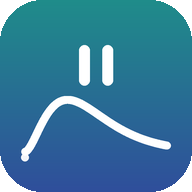
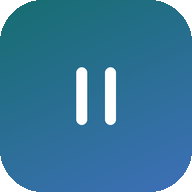
Иконка на рабочем столе — знак из шапки приложения
Вместо волны с паузой сверху — тот же скруглённый квадрат с градиентом
и белым знаком паузы, что стоит в шапке. Геометрия повторяет разметку:
содержимое занимает 60% стороны, линии там же, где в svg.
Кэш service worker поднят до v2, иначе на установленном приложении
осталась бы прежняя иконка.

Changed region(s): [[0.0, 0.2188, 1.0, 1.0], [0.0312, 0.0, 0.9688, 0.0938]]

diff --git a/sw.js b/sw.js
@@ -1,5 +1,5 @@
 /* «Пауза» — service worker. Кэшируется только оболочка; данные живут в localStorage. */
-const CACHE = "pauza-v1";
+const CACHE = "pauza-v2";   // v2: иконки заменены на знак из шапки
 const ASSETS = [
   "./", "./index.html", "./app.js", "./manifest.webmanifest",
   "./icon-180.png", "./icon-192.png", "./icon-512.png", "./favicon-32.png"

diff --git a/make_icons.py b/make_icons.py
@@ -1,62 +1,62 @@
 #!/usr/bin/env python3
-"""Иконки для «Паузы»: спокойный градиент бирюза → индиго, белая волна и знак паузы."""
+"""Иконки для «Паузы» — тот же знак, что стоит в шапке приложения:
+скруглённый квадрат с градиентом бирюза → синий и белый знак паузы.
+
+Геометрия повторяет разметку: логотип в шапке — квадрат 30 px, внутри
+svg 18 px с двумя линиями (x = 9 и 15, y от 6 до 18, толщина 2.2,
+круглые концы). Значит содержимое занимает 60% стороны, и все размеры
+здесь считаются от этой доли — иконка получается той же, только крупнее.
+"""
 from PIL import Image, ImageDraw
 import math, os
 
 OUT = os.path.dirname(os.path.abspath(__file__))
 
+ACCENT = (0x16, 0x6E, 0x70)    # --accent светлой темы
+ACCENT2 = (0x3E, 0x6F, 0xB8)   # --accent-2
+ANGLE = 155                    # linear-gradient(155deg, …) из .logo
+
+
 def lerp(a, b, t):
     return tuple(round(a[i] + (b[i] - a[i]) * t) for i in range(3))
+
 
 def rounded_mask(size, rad):
     m = Image.new("L", (size, size), 0)
     ImageDraw.Draw(m).rounded_rectangle([0, 0, size - 1, size - 1], radius=rad, fill=255)
     return m
 
+
 def make(size):
-    ss = 4
+    ss = 4                     # рисуем крупнее и ужимаем: края выходят гладкими
     S = size * ss
-    img = Image.new("RGB", (S, S), (0, 0, 0))
-    top = (0x1F, 0x8C, 0x8A)   # бирюза
-    bot = (0x2F, 0x4E, 0x9B)   # индиго
+
+    # градиент вдоль направления CSS: 0deg — вверх, отсчёт по часовой стрелке
+    rad = math.radians(ANGLE)
+    dx, dy = math.sin(rad), -math.cos(rad)
+    img = Image.new("RGB", (S, S))
     px = img.load()
+    half = (abs(dx) + abs(dy)) * S / 2      # длина проекции квадрата на ось градиента
     for y in range(S):
-        c = lerp(top, bot, y / (S - 1))
         for x in range(S):
-            px[x, y] = c
-    d = ImageDraw.Draw(img, "RGBA")
+            p = ((x - S / 2) * dx + (y - S / 2) * dy + half) / (2 * half)
+            px[x, y] = lerp(ACCENT, ACCENT2, min(1.0, max(0.0, p)))
 
-    # волна: пик слева, затухание вправо
-    def wave_y(t):
-        p, a = 0.30, 1.9
-        if t <= 0:
-            return 0.0
-        r = t / p
-        return 0.10 + 0.90 * (r ** a) * math.exp(a * (1 - r))
-
-    # рисуем кружками — так линия остаётся гладкой на любом размере
-    r = S * 0.020
-    steps = 900
-    for i in range(steps + 1):
-        t = i / steps
-        x = 0.13 * S + t * 0.74 * S
-        y = 0.82 * S - wave_y(t) * 0.30 * S
-        d.ellipse([x - r, y - r, x + r, y + r], fill=(255, 255, 255, 240))
-
-    # знак паузы над волной
-    bw = S * 0.055
-    bh = S * 0.21
-    gap = S * 0.066
-    cx, cy = S * 0.50, S * 0.34
-    for sgn in (-1, 1):
-        x0 = cx + sgn * gap / 2 - (bw if sgn < 0 else 0)
-        d.rounded_rectangle([x0, cy - bh / 2, x0 + bw, cy + bh / 2],
-                            radius=bw / 2, fill=(255, 255, 255, 255))
+    d = ImageDraw.Draw(img)
+    k = 0.6 * S / 24           # svg 18 внутри квадрата 30 → та же доля, что в шапке
+    w = 2.2 * k                # толщина линии
+    h = 6.0 * k                # половина длины (y от 6 до 18)
+    cx, cy = S / 2, S / 2
+    for sign in (-1, 1):
+        bx = cx + sign * 3.0 * k       #x = 9 и 15 при центре 12
+        d.rounded_rectangle([bx - w / 2, cy - h, bx + w / 2, cy + h],
+                            radius=w / 2, fill=(255, 255, 255))
 
     img = img.resize((size, size), Image.LANCZOS)
     out = Image.new("RGBA", (size, size), (0, 0, 0, 0))
     out.paste(img, (0, 0), rounded_mask(size, round(size * 0.22)))
     return out
+
 
 for s, name in [(512, "icon-512.png"), (192, "icon-192.png"), (180, "icon-180.png"), (32, "favicon-32.png")]:
     make(s).save(os.path.join(OUT, name))
